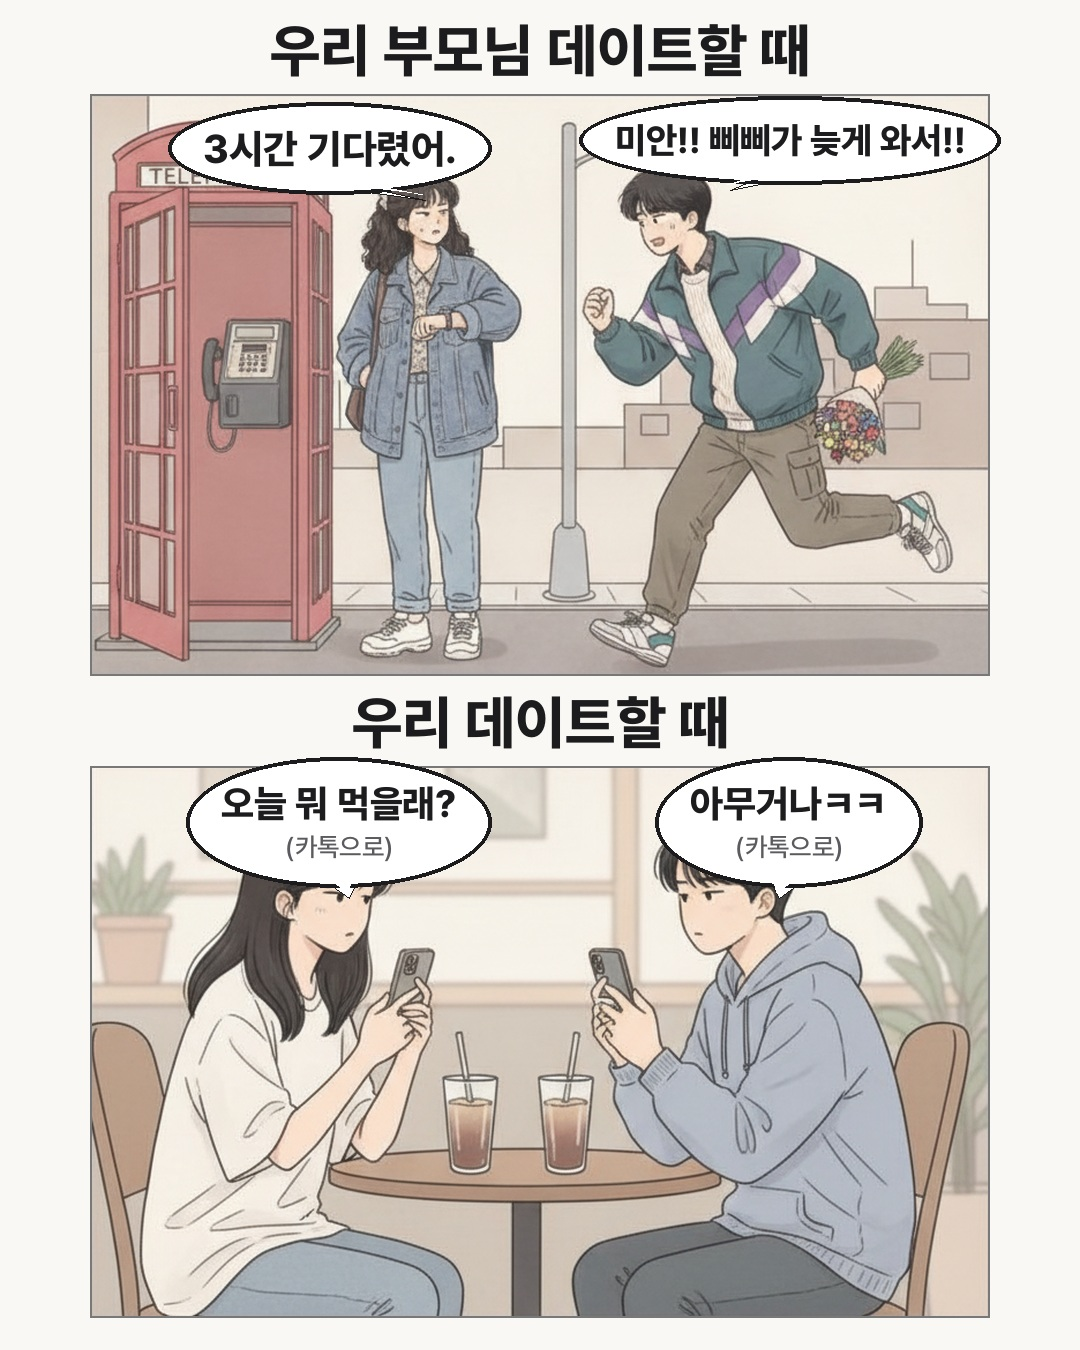
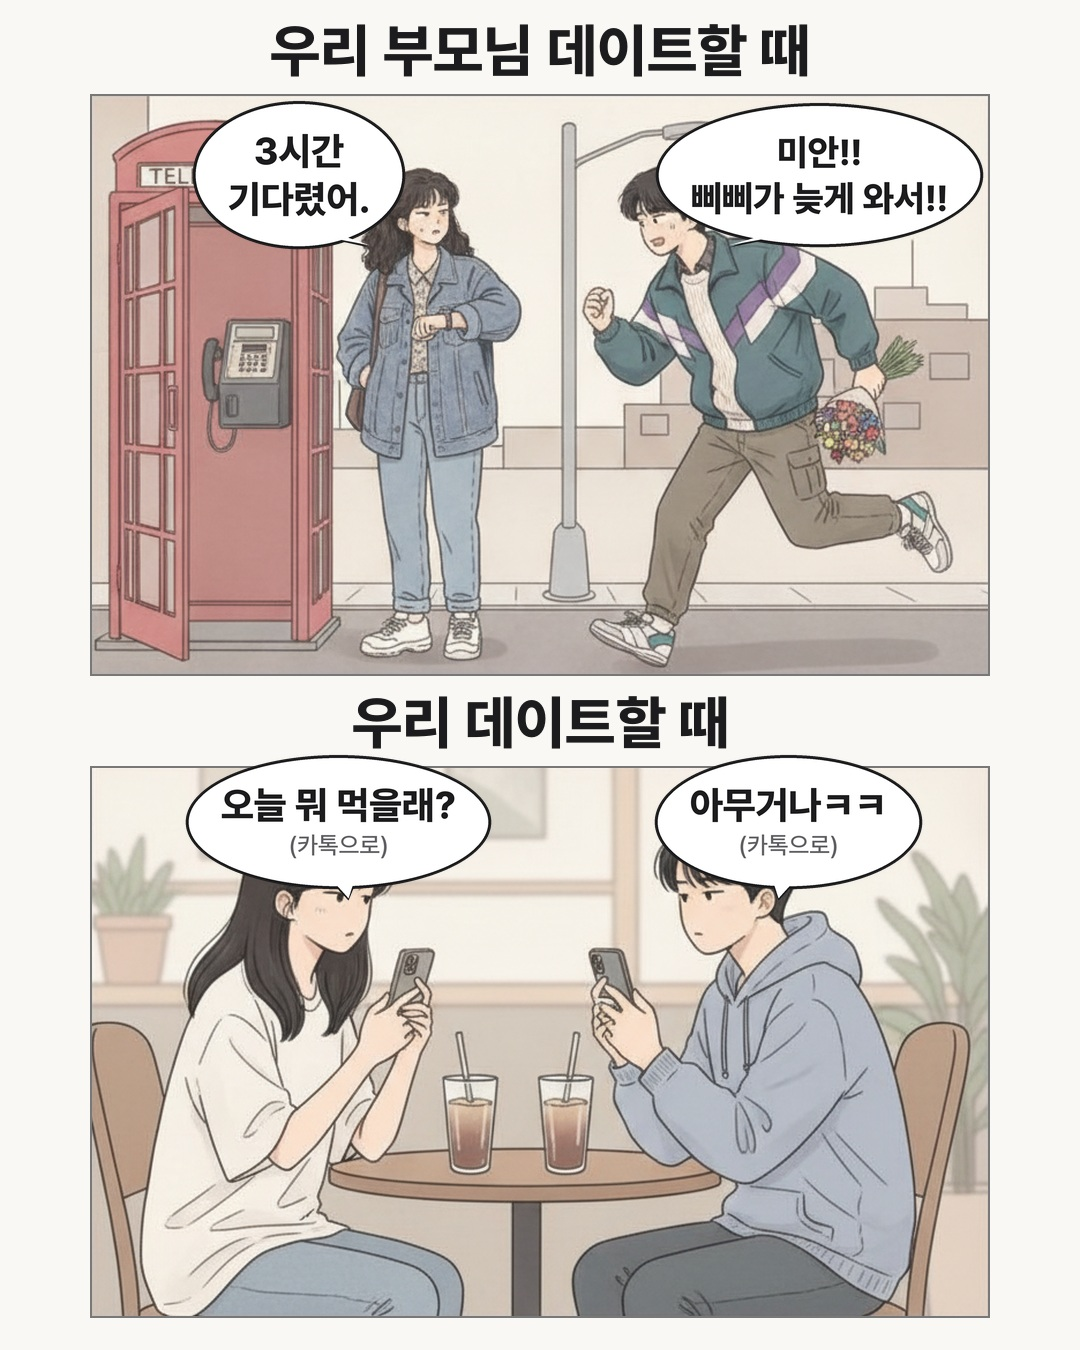
수민버스형 데이트: 말풍선 다시 그림
Claude-Session: https://claude.ai/code/session_01FGsw5RJiPx86zKSPGHk4rD

diff --git a/jobs/2026-11-23-soomi-date/build.py b/jobs/2026-11-23-soomi-date/build.py
@@ -19,18 +19,36 @@ def title(t, y):
     d.text((W // 2, y), t, font=ImageFont.truetype(FX, 58), fill=INK, anchor='mm')
 
 def bubble(lines, cx, cy, tail, size=44, sub=None):
-    f = ImageFont.truetype(FX, size)
-    tw = max(d.textlength(l, font=f) for l in lines); lh = size + 12
-    bw, bh = tw + 70, lh * len(lines) + 40 + (40 if sub else 0)
-    x0, y0 = cx - bw / 2, cy - bh / 2
-    d.polygon([(cx + tail[0] * 0.15 - 18, y0 + bh - 8), (cx + tail[0] * 0.15 + 18, y0 + bh - 8), (cx + tail[0], cy + tail[1])], fill='white', outline=INK)
-    d.ellipse((x0, y0, x0 + bw, y0 + bh), fill='white', outline=INK, width=4)
-    d.polygon([(cx + tail[0] * 0.15 - 15, y0 + bh - 12), (cx + tail[0] * 0.15 + 15, y0 + bh - 12), (cx + tail[0] - 3, cy + tail[1] - 6)], fill='white')
-    ty = cy - (lh * len(lines) + (40 if sub else 0)) / 2 + lh / 2
+    """수민버스식 말풍선: 4배로 그려 줄여 매끈하게. 타원 + 짧은 꼬리, 얇은 검정 선."""
+    S = 4
+    f = ImageFont.truetype(FX, size * S); fs_ = ImageFont.truetype(FM, 24 * S)
+    tmp = ImageDraw.Draw(Image.new('L', (1, 1)))
+    tw = max(tmp.textlength(l, font=f) for l in lines); lh = (size + 10) * S
+    th = lh * len(lines) + (34 * S if sub else 0)
+    bw, bh = tw + 64 * S, th + 46 * S
+    tx, ty = tail[0] * S, tail[1] * S
+    pad = 40 * S
+    Wl = int(bw + abs(tx) * 2 + pad * 2); Hl = int(bh + abs(ty) + pad * 2)
+    lay = Image.new('RGBA', (Wl, Hl), (0, 0, 0, 0)); dl = ImageDraw.Draw(lay)
+    ox, oy = Wl / 2 - bw / 2, pad
+    LW = 3 * S
+    box = (ox, oy, ox + bw, oy + bh)
+    tip = (Wl / 2 + tx, oy + bh / 2 + ty)
+    bx = Wl / 2 + tx * 0.25
+    base = [(bx - 16 * S, oy + bh - 14 * S), (bx + 16 * S, oy + bh - 14 * S)]
+    # 바깥선: 검정으로 크게 그린 뒤 흰색으로 안쪽 채움
+    dl.ellipse((box[0] - LW, box[1] - LW, box[2] + LW, box[3] + LW), fill=INK)
+    dl.polygon([(base[0][0] - LW, base[0][1]), (base[1][0] + LW, base[1][1]), (tip[0], tip[1] + LW * 0.8)], fill=INK)
+    dl.ellipse(box, fill='white')
+    dl.polygon([base[0], base[1], tip], fill='white')
+    yy = oy + (bh - th) / 2 + lh / 2
     for i, l in enumerate(lines):
-        d.text((cx, ty + i * lh), l, font=f, fill=INK, anchor='mm')
+        dl.text((Wl / 2, yy + i * lh), l, font=f, fill=INK, anchor='mm')
     if sub:
-        d.text((cx, ty + len(lines) * lh - 6), sub, font=ImageFont.truetype(FM, 26), fill=(90, 90, 95), anchor='mm')
+        dl.text((Wl / 2, yy + len(lines) * lh - 8 * S), sub, font=fs_, fill=(95, 95, 100), anchor='mm')
+    lay = lay.resize((Wl // S, Hl // S), Image.LANCZOS)
+    cv.paste(lay, (int(cx - Wl / S / 2), int(cy - (oy + bh / 2) / S)), lay)
+
 
 title("우리 부모님 데이트할 때", 50)
 y = paste(p1, 94)
@@ -41,8 +59,8 @@ print('bottom', y2)
 s1 = PW / p1.width
 def P1(x, yy): return X + (x - 60) * s1, 94 + (yy - 44) * s1
 def P2(x, yy): return X + (x - 60) * s1, y + 90 + (yy - 628) * s1
-bubble(['3시간 기다렸어.'], 330, 148, (95, 52), size=40)
-bubble(['미안!! 삐삐가 늦게 와서!!'], 790, 140, (-60, 50), size=36)
+bubble(['3시간', '기다렸어.'], 300, 175, (70, 70), size=38)
+bubble(['미안!!', '삐삐가 늦게 와서!!'], 820, 175, (-90, 70), size=36)
 cx, cy = P2(250, 660); bubble(['오늘 뭐 먹을래?'], cx + 30, cy + 20, (10, 76), size=38, sub='(카톡으로)')
 cx, cy = P2(640, 660); bubble(['아무거나ㅋㅋ'], cx + 30, cy + 20, (-10, 76), size=38, sub='(카톡으로)')
 cv.save(os.path.join(HERE, 'out/01.jpg'), quality=94)
